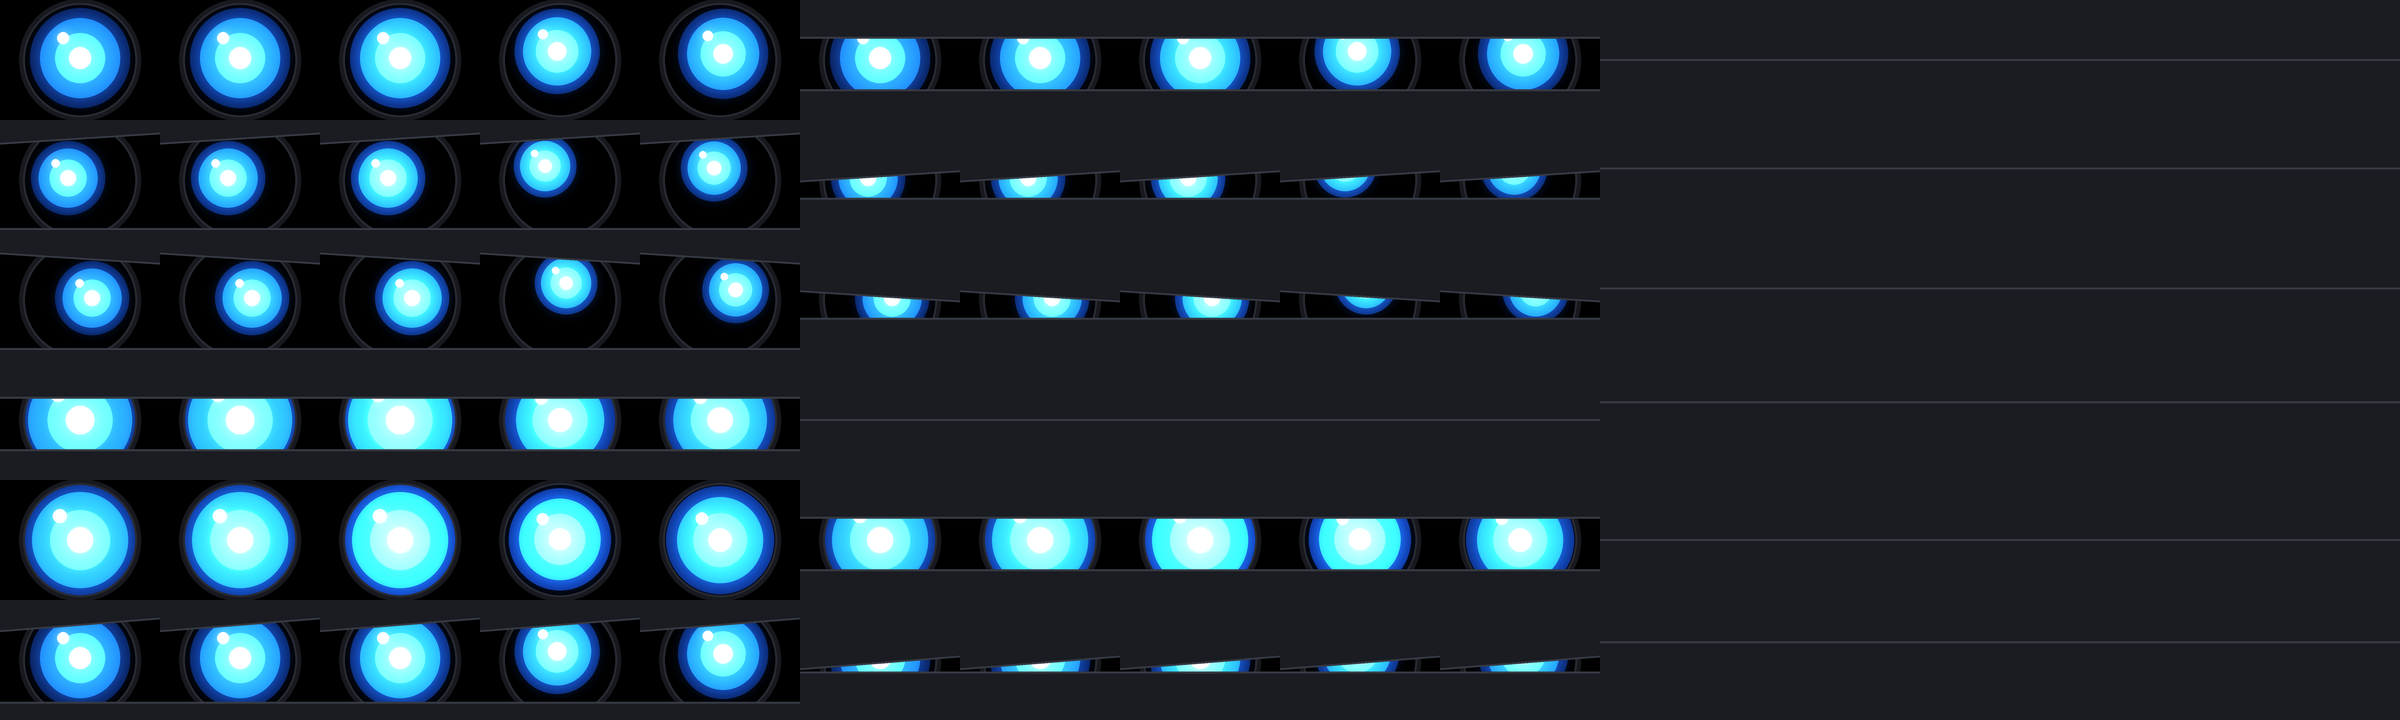
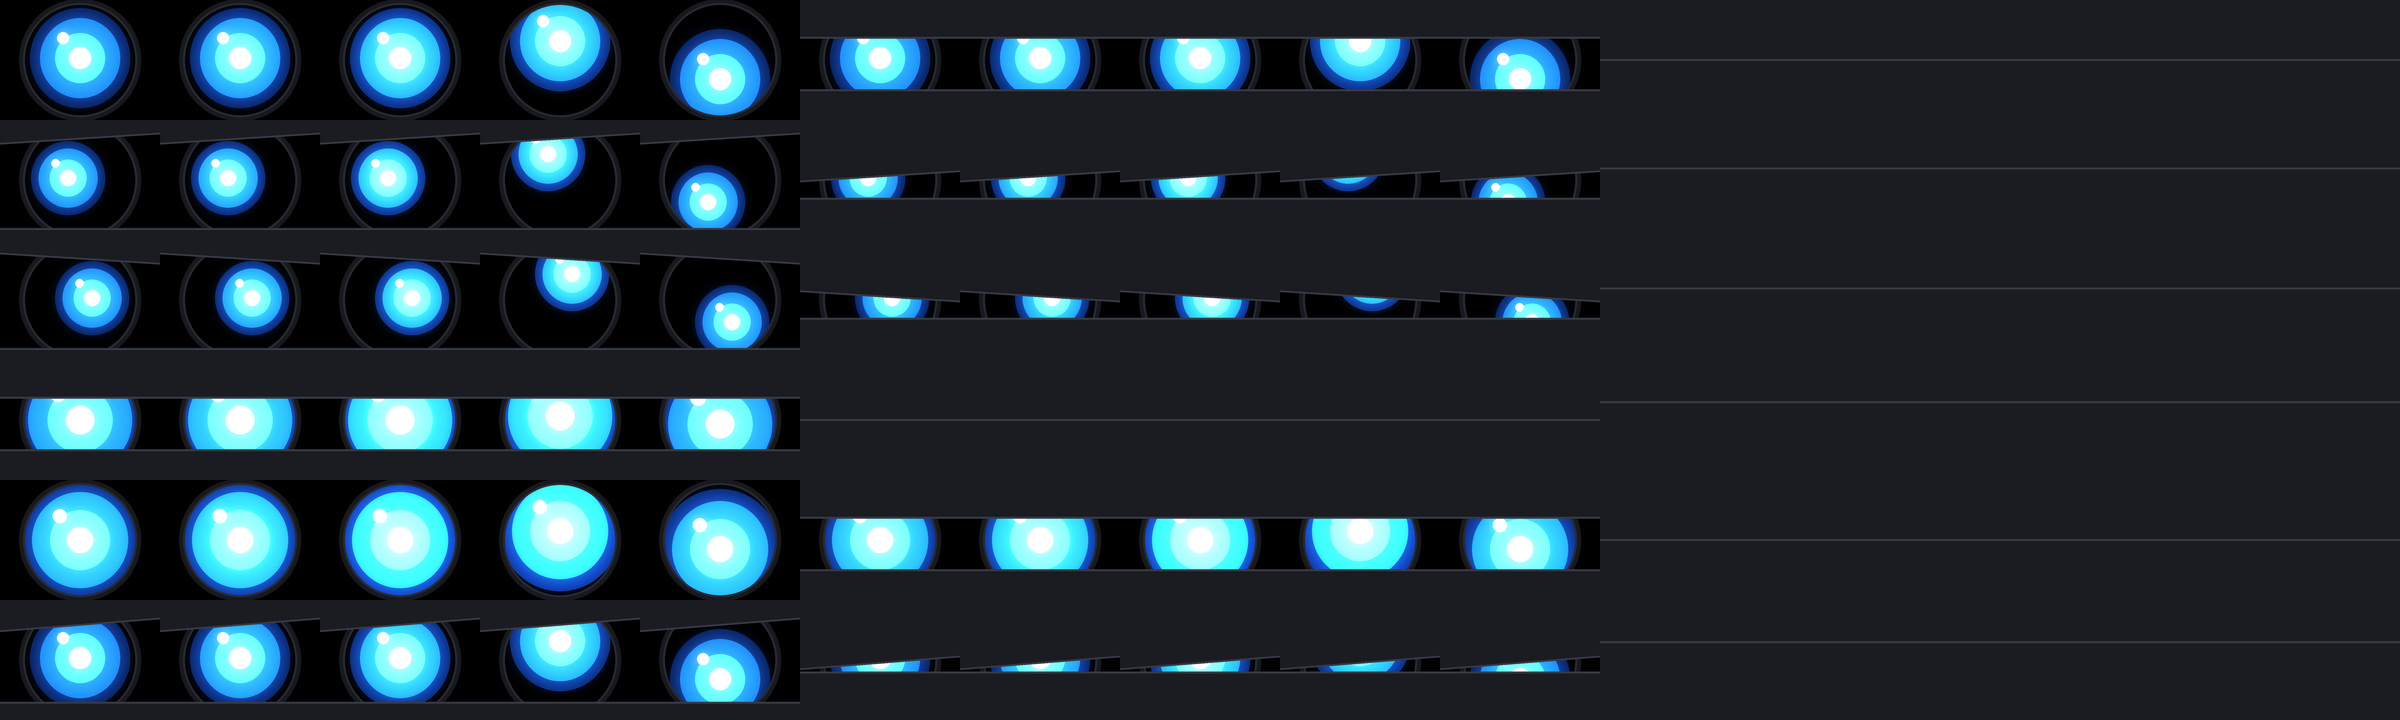
Fix inverted pitch convention, add genuine look-down eye cue
Servo pitch: an isolated test (pitch=5, the minimum, vs pitch=85, the
maximum, no other changes) proved LOWER pitch looks DOWN and HIGHER looks
UP — the exact opposite of what LOOK_DOWN_PITCH/LOOK_UP_PITCH assumed
everywhere (busy/idle head poses, TalkingBob's center pitch, wander's
up/down vignettes). Fixed by swapping the two named constants in
stackchan-hook.py (everything else references them by name, so nothing
else needed to change) and flipping the +/- direction in
stackchan-idle.py's two vignettes that claim a specific up/down intent.

Avatar: mouth_u was a second "up" glance variant paired with mouth_e for
the kung-fu flutter. Repurposed it into a genuine, independently
controllable "look down" cue (the matrix's 90 frames are a fixed 6x3x5
firmware cross-product, so this was the only slot not already committed
to real lip-sync) — the flutter now alternates mouth_e with mouth_closed
instead so it still works with only the up slot. Also switched both
vertical cues from shrinking the optic to fit inside the aperture to
staying full-size and partially clipping against the housing rim instead,
which reads as a much more natural "eye rolling toward the lid" than a
shrinking iris.

Verified live: eye-only isolated tests for both pitch directions and both
mouth cues, then a combined eye-leads-head diagonal (up-and-right: face +
mouth glance first, head physically follows to match).

diff --git a/gateway/wheatley_avatar.py b/gateway/wheatley_avatar.py
@@ -194,16 +194,34 @@ EYES_SPECS = {
 }
 
 # mouth: closed/half/open are real lip-sync (firmware auto-cycles these
-# during speech) so they stay near-neutral; e/u are the vertical "glance
-# up"/kung-fu-flutter pair and carry the big oy offset — composited onto
-# whatever face is currently active, giving a genuine diagonal look
-# (e.g. thinking + mouth_e = look up-and-left) rather than a fixed pose.
+# during speech) so they stay near-neutral. e/u are the two matrix-mode
+# vertical gaze cues, composited onto whatever face is currently active —
+# giving a genuine diagonal look (e.g. thinking + mouth_e = look
+# up-and-left) rather than a fixed pose.
+#
+# 2026-07-01: mouth_u used to be a SECOND "up" variant (paired with mouth_e
+# for the kung-fu flutter, both rolling upward). User wanted a real,
+# independently-controllable "look down" to pair with head pitch — the
+# matrix's 90 frames are a fixed 6x3x5 cross-product (firmware-hardcoded,
+# not expandable without a reflash), so there's no literal free slot to
+# add; the only slot not already committed to real lip-sync is this one.
+# Flipped mouth_u's oy sign so it's a genuine down-glance instead of a
+# second up-glance. The kung-fu flutter (stackchan-hook.py busy-continue)
+# was reworked to alternate mouth_e with mouth_closed instead of e/u, so it
+# still flutters using only the up cue, freeing this one for down.
+# clip_margin: how much of the optic is ALLOWED to clip against the
+# aperture edge (fed to _clamp_gaze as its margin). Real eyes don't shrink
+# when they roll up/down — the iris just partially disappears behind the
+# lid/socket rim. closed/half/open keep the protective default (never
+# clip — they're driven by real speech, need to stay legible); e/u use a
+# deliberately negative margin so the same-size optic is allowed to push
+# past the aperture boundary and clip naturally instead of shrinking.
 MOUTH_SPECS = {
-    "mouth_closed": dict(oy=0,        ox=0,       bright_mult=1.00, scale_mult=1.00),
-    "mouth_half":   dict(oy=0,        ox=0,       bright_mult=1.12, scale_mult=1.00),
-    "mouth_open":   dict(oy=0,        ox=0,       bright_mult=1.30, scale_mult=1.00),
-    "mouth_e":      dict(oy=-15 * SS, ox=6 * SS,  bright_mult=1.30, scale_mult=0.85),  # glance-up / flutter A
-    "mouth_u":      dict(oy=-10 * SS, ox=-6 * SS, bright_mult=1.15, scale_mult=0.90),  # glance-up / flutter B
+    "mouth_closed": dict(oy=0,        ox=0, bright_mult=1.00, scale_mult=1.00, clip_margin=3 * SS),
+    "mouth_half":   dict(oy=0,        ox=0, bright_mult=1.12, scale_mult=1.00, clip_margin=3 * SS),
+    "mouth_open":   dict(oy=0,        ox=0, bright_mult=1.30, scale_mult=1.00, clip_margin=3 * SS),
+    "mouth_e":      dict(oy=-24 * SS, ox=0, bright_mult=1.30, scale_mult=1.00, clip_margin=-14 * SS),  # glance UP
+    "mouth_u":      dict(oy=24 * SS,  ox=0, bright_mult=1.00, scale_mult=1.00, clip_margin=-14 * SS),  # glance DOWN
 }
 
 FACES = ["idle", "happy", "thinking", "sad", "surprised", "embarrassed"]
@@ -257,7 +275,7 @@ def render_combo(face: str, eyes: str, mouth: str) -> Image.Image:
     d = ImageDraw.Draw(base)
     _housing(d)
     r = int((OPTIC_R * 0.92 if claude else OPTIC_R) * scale)
-    ox, oy = _clamp_gaze(r, ox, oy, margin=int(3 * SS))
+    ox, oy = _clamp_gaze(r, ox, oy, margin=m["clip_margin"])
     optic = Image.fromarray(_optic_layer(BLUE, scale, bright, ox, oy, claude), "RGB")
     base = Image.composite(optic, base, _aperture_mask())
     d = ImageDraw.Draw(base)

diff --git a/gateway/integrations/claude-code/stackchan-hook.py b/gateway/integrations/claude-code/stackchan-hook.py
@@ -328,10 +328,15 @@ class MCPSession:
 # ("move", yaw, pitch) and ("sleep", seconds) steps. Neutral is ~yaw 0,
 # pitch 45; ranges are yaw -90..90, pitch 5..85. Kept small + gentle, with
 # pauses between reversals (firmware dislikes large rapid reversals).
-# Pitch convention: LOWER pitch = look UP (toward the user, who sits above
-# the desk bot), HIGHER pitch = look DOWN. Neutral ~45.
-LOOK_DOWN_PITCH = 60   # busy/concentrating — head down at the "work"
-LOOK_UP_PITCH = 34     # idle/need-you — looking up, engaged with the user
+# Pitch convention: HIGHER pitch = look UP, LOWER pitch = look DOWN. Neutral
+# ~45. (2026-07-01: this was previously documented backwards — "lower = up"
+# — and every constant below was set accordingly, so busy/idle read as the
+# OPPOSITE of intended. Confirmed via a clean isolated test: pitch=5 [the
+# servo minimum] physically looked DOWN, pitch=85 [the maximum] looked UP.
+# Fixed by swapping the two values below; every other reference in this
+# file uses these constants BY NAME, so nothing else needed to change.)
+LOOK_DOWN_PITCH = 34   # busy/concentrating — head down at the "work"
+LOOK_UP_PITCH = 60     # idle/need-you — looking up, engaged with the user
 
 # Persistent status LED colours (currently hidden inside the case, but
 # harmless to send — ready for when the new shell exposes them). Distinct
@@ -444,17 +449,23 @@ try:
         # Eye does a fast upward flutter into the top lid on each completed
         # tool call ("Neo learning kung fu" download-look) via
         # set_mouth_sequence — a firmware-local step queue, so this is one
-        # network call regardless of step count. mouth_e/mouth_u are
-        # repurposed for this (see wheatley_avatar.py) — firmware's own
-        # lip-sync auto-cycle never touches those two slots, so it can't
-        # collide with real speech. set_mouth_sequence returns immediately;
-        # sleep the queued duration before restoring the steady busy face,
-        # or the restore would interrupt the in-flight sequence early.
+        # network call regardless of step count. mouth_e is repurposed for
+        # this (see wheatley_avatar.py) — firmware's own lip-sync auto-cycle
+        # never touches it, so it can't collide with real speech.
+        # set_mouth_sequence returns immediately; sleep the queued duration
+        # before restoring the steady busy face, or the restore would
+        # interrupt the in-flight sequence early.
+        #
+        # 2026-07-01: this used to alternate mouth_e/mouth_u (both "up" —
+        # see wheatley_avatar.py's old comment). mouth_u is now a genuine
+        # "look down" cue instead of a second up-glance, so the flutter
+        # alternates mouth_e with mouth_closed instead — still a fluttering
+        # roll-up-and-settle motion, just using only the up slot.
         flutter_steps = [
             {"shape": "e", "duration_ms": 70},
-            {"shape": "u", "duration_ms": 60},
+            {"shape": "closed", "duration_ms": 60},
             {"shape": "e", "duration_ms": 70},
-            {"shape": "u", "duration_ms": 60},
+            {"shape": "closed", "duration_ms": 60},
         ]
         try:
             session.call_tool("set_mouth_sequence", {"steps": flutter_steps})

diff --git a/gateway/stackchan-idle.py b/gateway/stackchan-idle.py
@@ -84,8 +84,12 @@ TICK_MIN_S, TICK_MAX_S = 4.0, 10.0
 # alternation — the dwell+sticky-side mechanism below is unchanged, this
 # only makes it check in sooner and act more often once truly idle).
 GLANCE_PROB = 0.85
-# Gentle envelope, biased to look UP (lower pitch = up; the user sits above
-# the desk bot, so idle/at-rest should read as "looking at you").
+# Gentle envelope. Pitch convention: HIGHER pitch = look UP, LOWER = look
+# DOWN (2026-07-01: confirmed via an isolated servo-only test — pitch=5,
+# the minimum, physically looked down; pitch=85, the maximum, looked up.
+# Previously documented backwards as "lower = up", which flipped the
+# direction of the two vignettes below that reference a specific up/down —
+# see _v_look_up_center / _v_ponder_down.)
 YAW_MIN, YAW_MAX = -24, 24
 PITCH_MIN, PITCH_MAX = 28, 46
 NEUTRAL_YAW, NEUTRAL_PITCH = 0, 36
@@ -194,6 +198,7 @@ REST       = "idle"          # centered resting gaze
 WIDE       = "surprised"     # wide-eyed reaction (centered)
 MILD       = "embarrassed"   # mild, unimpressed/worried reaction (centered, canted)
 MOUTH_UP   = "e"             # composites a vertical glance-up onto the current face
+MOUTH_DOWN = "u"             # composites a vertical glance-down onto the current face
 MOUTH_NEUTRAL = "closed"     # real lip-sync resting state — always reset back to this
 EYE_LEAD   = 0.07            # eye moves this long before the head follows
 
@@ -248,12 +253,13 @@ def _v_nudge(session, pose):
 
 def _v_look_up_center(session, pose):
     """Genuine "just thought of something" beat: head physically tilts up
-    (lower pitch) AND the eye glances up on top of that (MOUTH_UP composited
-    onto whatever face is centered) — two independent axes agreeing, not
-    just a head move alone. Drifts from wherever he currently is, not a
-    snap back to a fixed neutral yaw (see module note above VIGNETTES)."""
+    (higher pitch) AND the eye glances up on top of that (MOUTH_UP
+    composited onto whatever face is centered) — two independent axes
+    agreeing, not just a head move alone. Drifts from wherever he
+    currently is, not a snap back to a fixed neutral yaw (see module note
+    above VIGNETTES)."""
     ny  = _clamp(pose["y"] + random.randint(-8, 8), YAW_MIN, YAW_MAX)
-    np_ = _clamp(pose["p"] - random.randint(2, 8), PITCH_MIN, PITCH_MAX)  # toward "up"
+    np_ = _clamp(pose["p"] + random.randint(2, 8), PITCH_MIN, PITCH_MAX)  # toward "up"
     session.move(ny, np_)
     time.sleep(random.uniform(0.1, 0.2))
     _mouth(session, MOUTH_UP)
@@ -294,18 +300,23 @@ def _v_diagonal_peek(session, pose):
 
 def _v_ponder_down(session, pose):
     """Thoughtful downcast beat: head physically pitches DOWN and slightly to
-    a side, brief hold (sometimes squinting in as if examining something
-    close), then relaxes. The mirror-image of _v_look_up_center. Drifts from
-    wherever he currently is, not a snap back to fixed neutral (see module
-    note above VIGNETTES)."""
+    a side, the eye ALSO glances down on top of that (MOUTH_DOWN — genuine
+    matching gaze, not just a squint standing in for it), brief hold
+    (sometimes also squinting in as if examining something close), then
+    relaxes. The mirror-image of _v_look_up_center. Drifts from wherever he
+    currently is, not a snap back to fixed neutral (see module note above
+    VIGNETTES)."""
     dy  = random.choice([-1, 1]) * random.randint(4, 14)
     ny  = _clamp(pose["y"] + dy, YAW_MIN, YAW_MAX)
-    np_ = _clamp(pose["p"] + random.randint(2, 8), PITCH_MIN, PITCH_MAX)  # toward "down"
+    np_ = _clamp(pose["p"] - random.randint(2, 8), PITCH_MIN, PITCH_MAX)  # toward "down"
     session.move(ny, np_)
+    time.sleep(random.uniform(0.1, 0.2))
+    _mouth(session, MOUTH_DOWN)
     time.sleep(random.uniform(0.15, 0.3))
     _face(session, EXAMINE if random.random() < 0.5 else REST)
     time.sleep(random.uniform(0.5, 1.0))
     _face(session, REST)
+    _mouth(session, MOUTH_NEUTRAL)
     pose.update(y=ny, p=np_)
     return pose
 